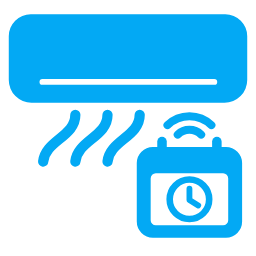
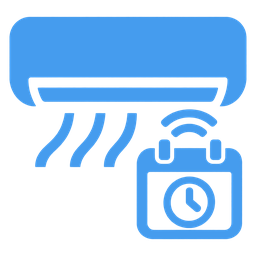
Icône : image fournie, fond transparent (v1.10.2)
Icône tirée de l'image fournie (dessin net) : fond noir rendu transparent,
bords lissés, couleur unie, recadrée en carré 256 et 512 px.

diff --git a/custom_components/split_scheduler/frontend/split-scheduler-card.js b/custom_components/split_scheduler/frontend/split-scheduler-card.js
@@ -22,7 +22,7 @@
  *       chart: [ambient, setpoint, outdoor]  # courbes du jour (au choix)
  */
 
-const CARD_VERSION = "1.10.1";
+const CARD_VERSION = "1.10.2";
 const ICON_URL = new URL("icon.png", import.meta.url).href;
 
 const GROUP_DEFAULTS = {
